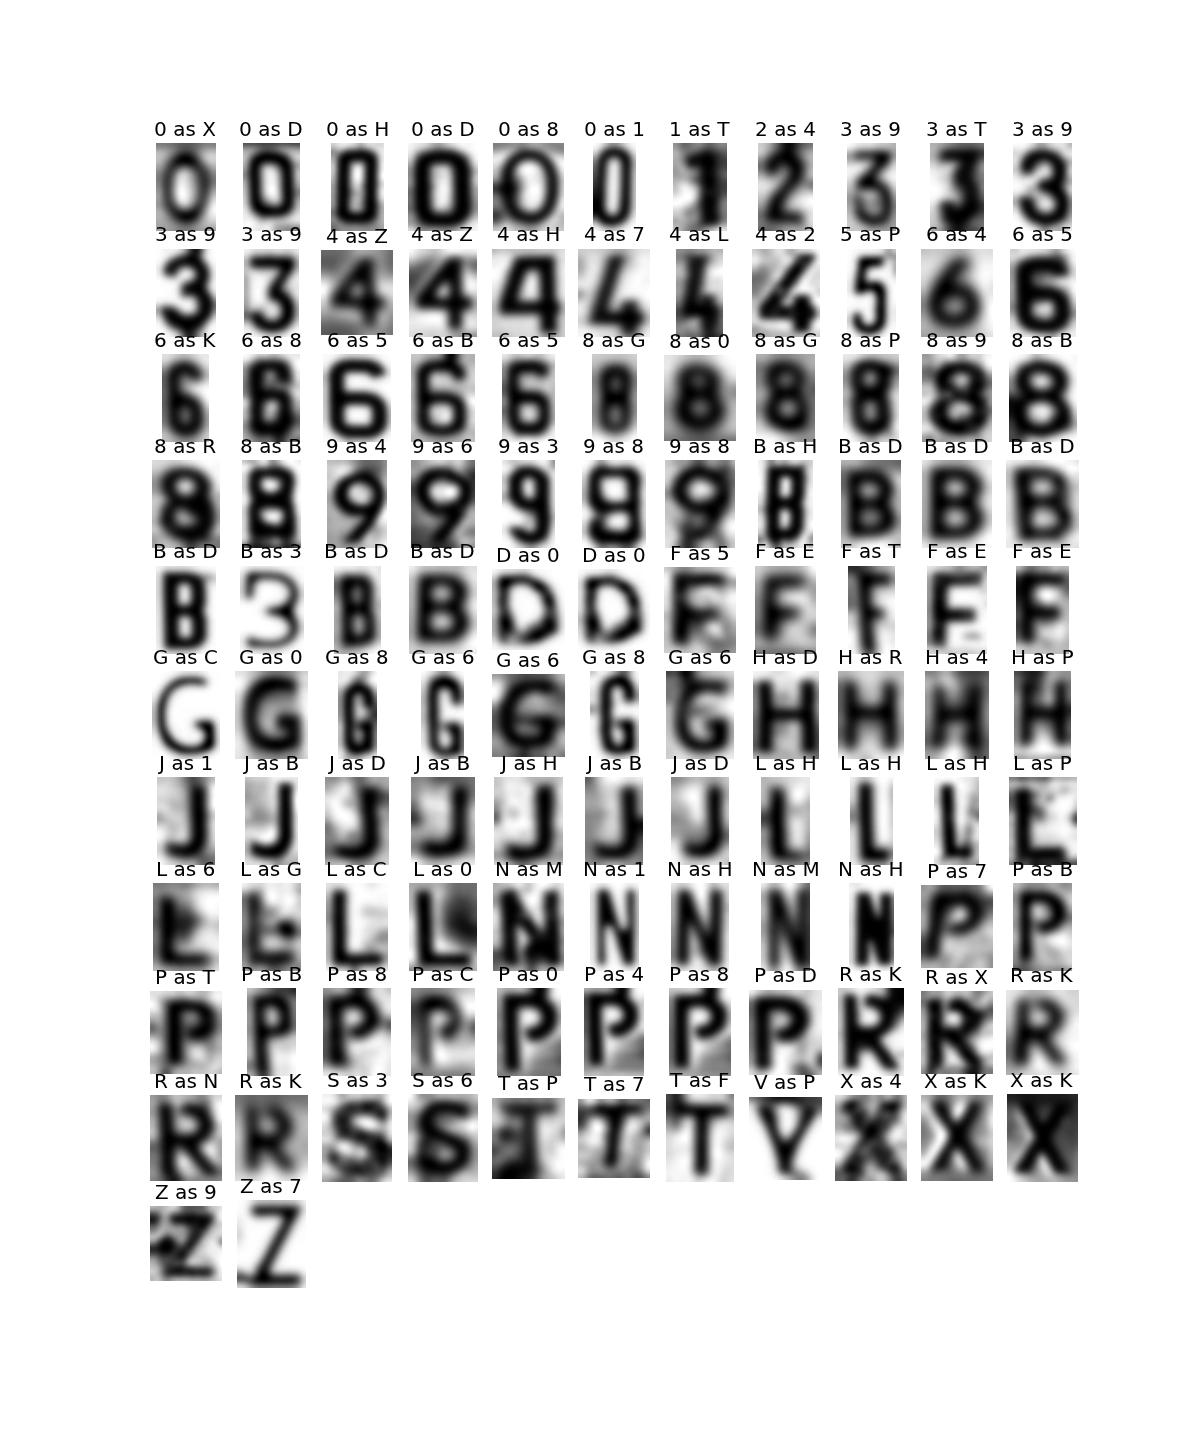
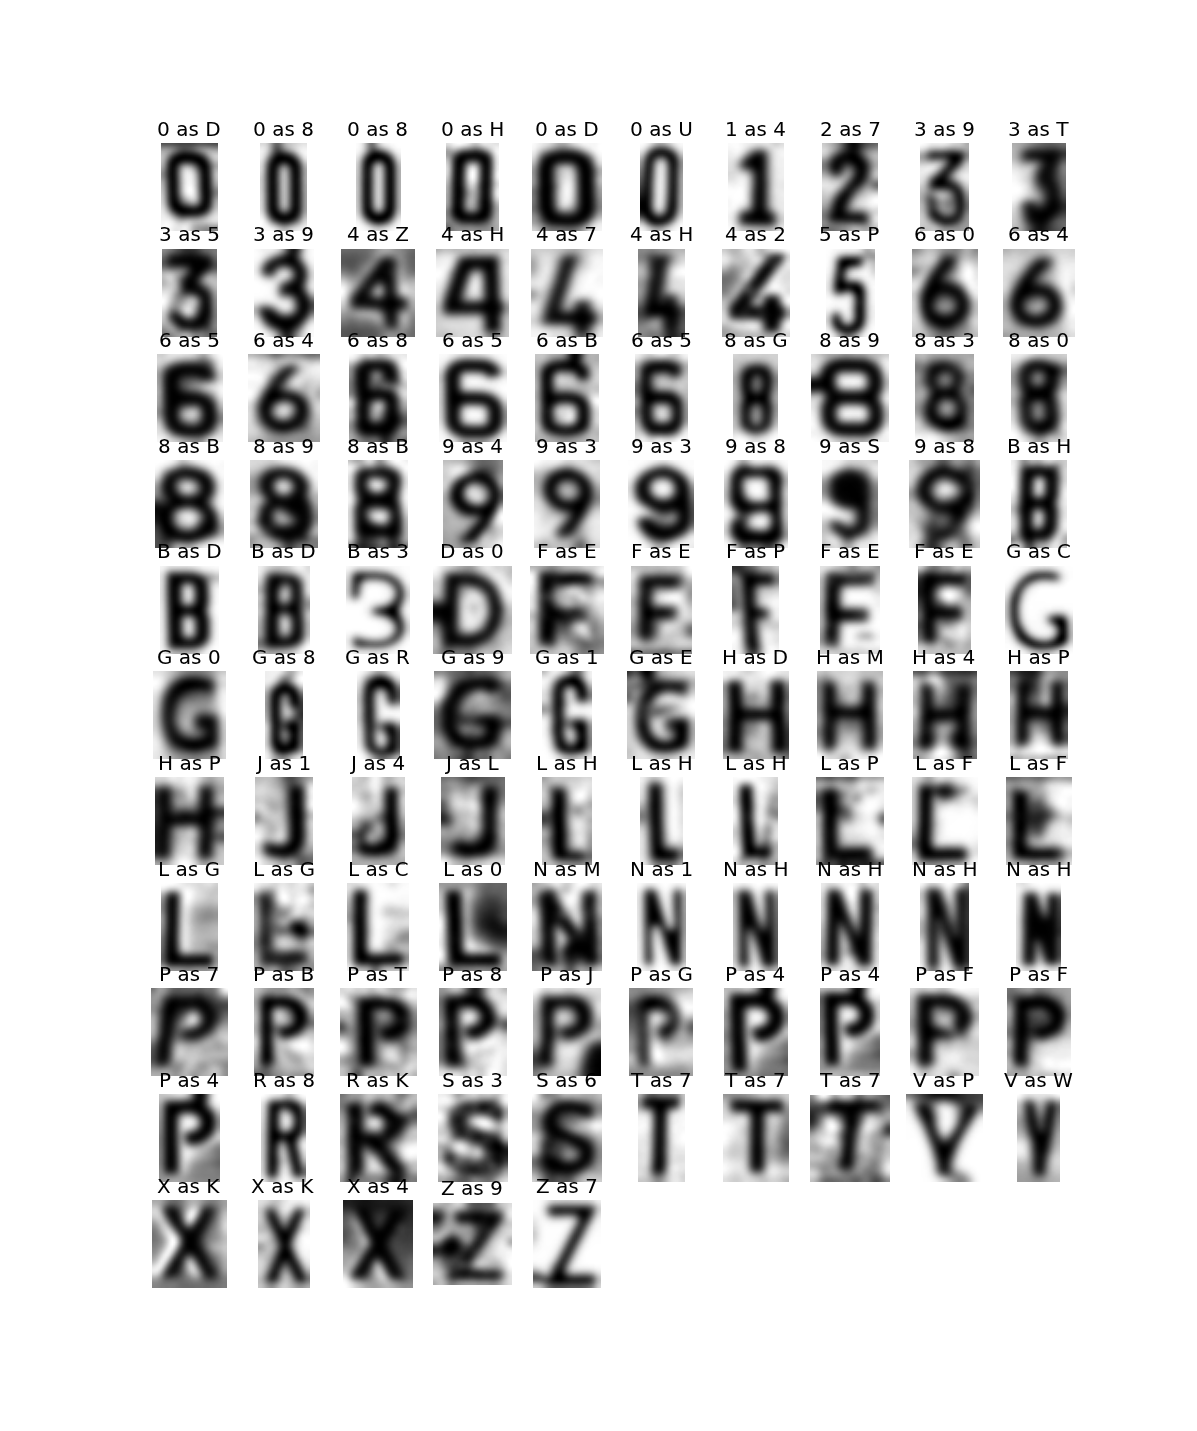
Reversed gaussian blur and image resizing for better results.

diff --git a/src/NormalizedCharacterImage.py b/src/NormalizedCharacterImage.py
@@ -10,19 +10,11 @@ class NormalizedCharacterImage(GrayscaleImage):
         elif data != None:
             GrayscaleImage.__init__(self, data=deepcopy(data))
 
-        self.blur = blur
-        self.gaussian_filter()
-
-        #self.increase_contrast()
-
         self.height = height
         self.resize()
 
-#    def increase_contrast(self):
-#        """Increase the contrast by performing a grayscale mapping from the 
-#        current maximum and minimum to a range between 0 and 1."""
-#        self.data -= self.data.min()
-#        self.data = self.data.astype(float) / self.data.max()
+        self.blur = blur
+        self.gaussian_filter()
 
     def gaussian_filter(self):
         GaussianFilter(self.blur).filter(self)
